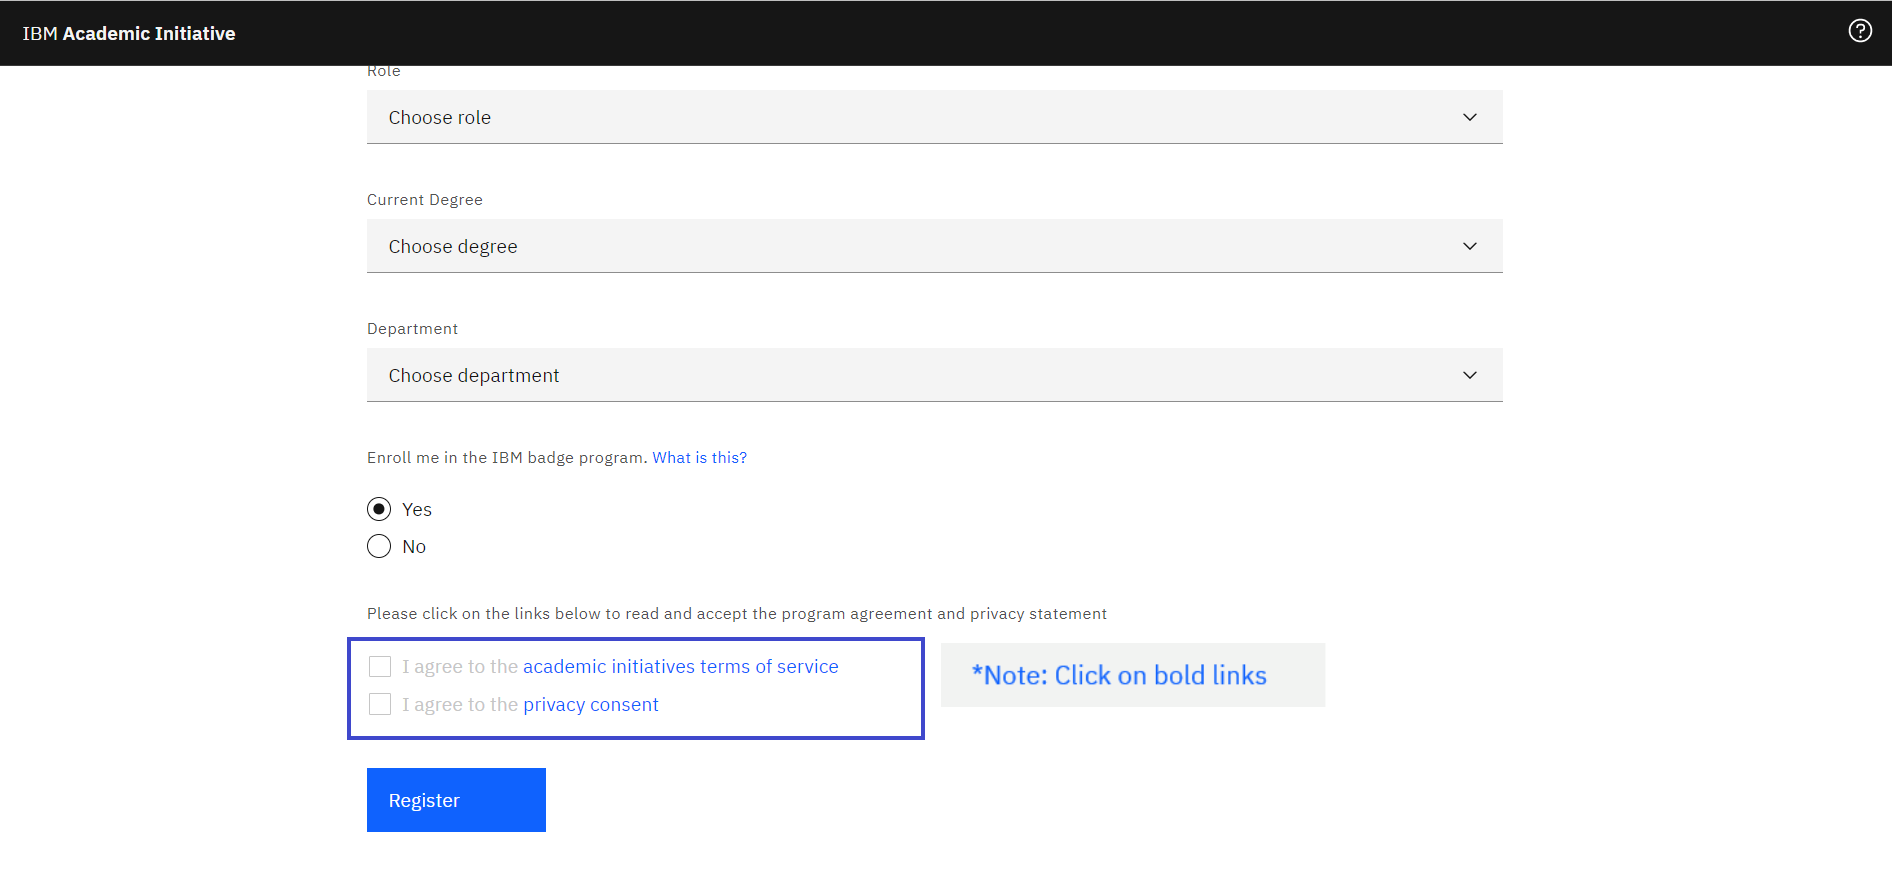
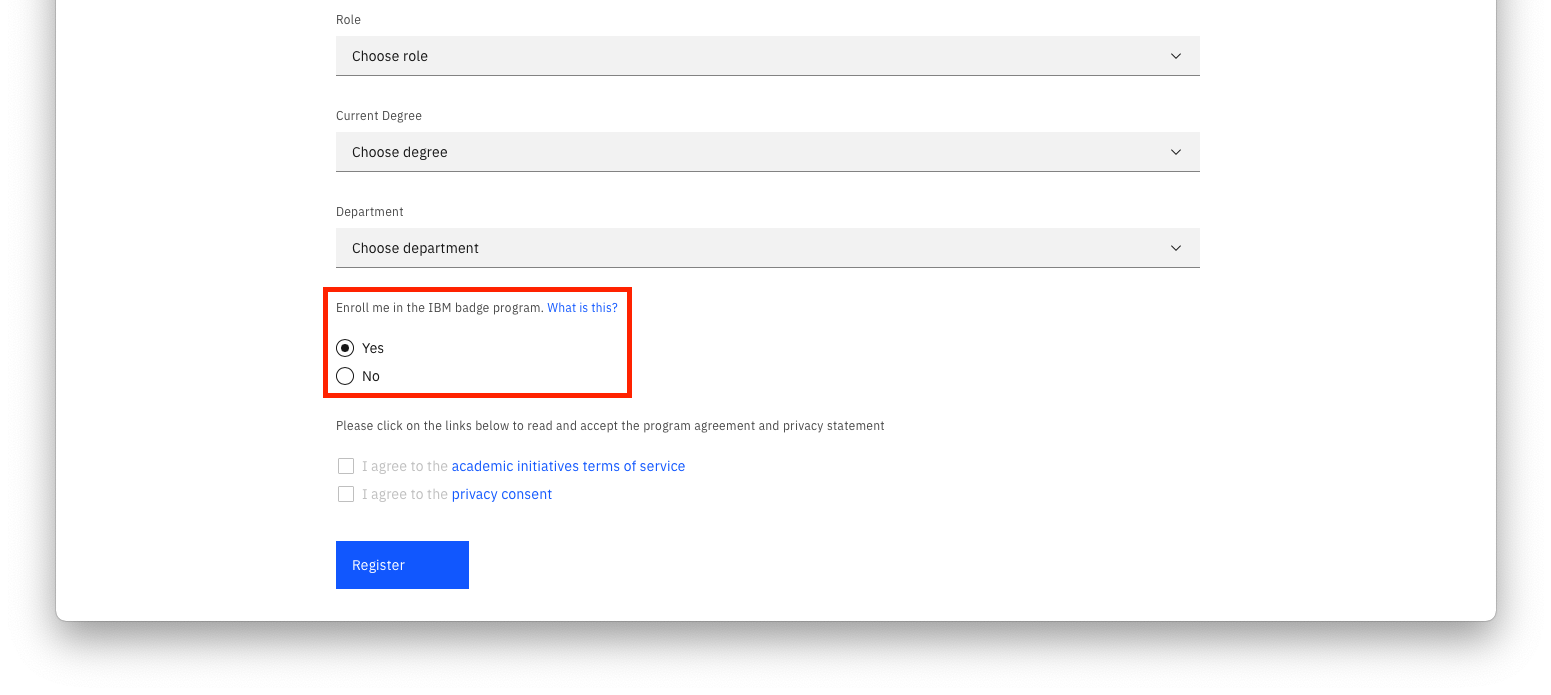
Updates to registration instructions

diff --git a/academic-initiative/how-to/How-to-register-with-the-IBM-Academic-Initiative/readme.md b/academic-initiative/how-to/How-to-register-with-the-IBM-Academic-Initiative/readme.md
@@ -1,7 +1,7 @@
 # How to register with the IBM Academic Initiative 
 
 
-[日本語](/academic-initiative/how-to/How-to-register-with-the-IBM-Academic-Initiative/readme-ja.md)
+[日本語](/academic-initiative/jp/how-to/How-to-register-with-the-IBM-Academic-Initiative/readme.md)
 
 **Objective:** The purpose of this guide is to walk you through the steps to be followed when you register as a student or a faculty member in the IBM Academic Initiative website.
 
@@ -34,19 +34,24 @@
 ![Step 5](images/step5a.png)
 ![Step 5b](images/step5b.png)
 
-## Step 6: After you read the IBM Academic Initiative Agreement and Privacy Statement, click **“I agree”.**
+## Step 6: Select if would like to participate in the [IBM Badge Program](https://www.ibm.com/training/credentials)
 <br />
 
-![Step 6](images/step6a.png)
-![Step 6b](images/step6b.png)
+![Step 6](images/step6.png)
+
+## Step 7: After you read the IBM Academic Initiative Agreement and Privacy Statement, click **“I agree”.**
+<br />
+
+![Step 7](images/step6a.png)
+![Step 7b](images/step6b.png)
  
-## Step 7: Click **Register**.
+## Step 8: Click **Register**.
 <br />
 
-![Step 7a](images/step7a.png)
-![Step 7b](images/step7b.png)
+![Step 8a](images/step7a.png)
+![Step 8b](images/step7b.png)
  
-## Step 8a: If you already have an IBMid with the academic institution issued email ID, you will be asked to login with that same account now. If you do not have an IBMid along with the academic institution issued email ID, you will be asked to create one at this time.
+## Step 9: If you already have an IBMid with the academic institution issued email ID, you will be asked to login with that same account now. If you do not have an IBMid along with the academic institution issued email ID, you will be asked to create one at this time.
 <br />
 
-## Step 9: Return to the IBM Academic Initiative website and login.
+## Step 10: Return to the IBM Academic Initiative website and login.
